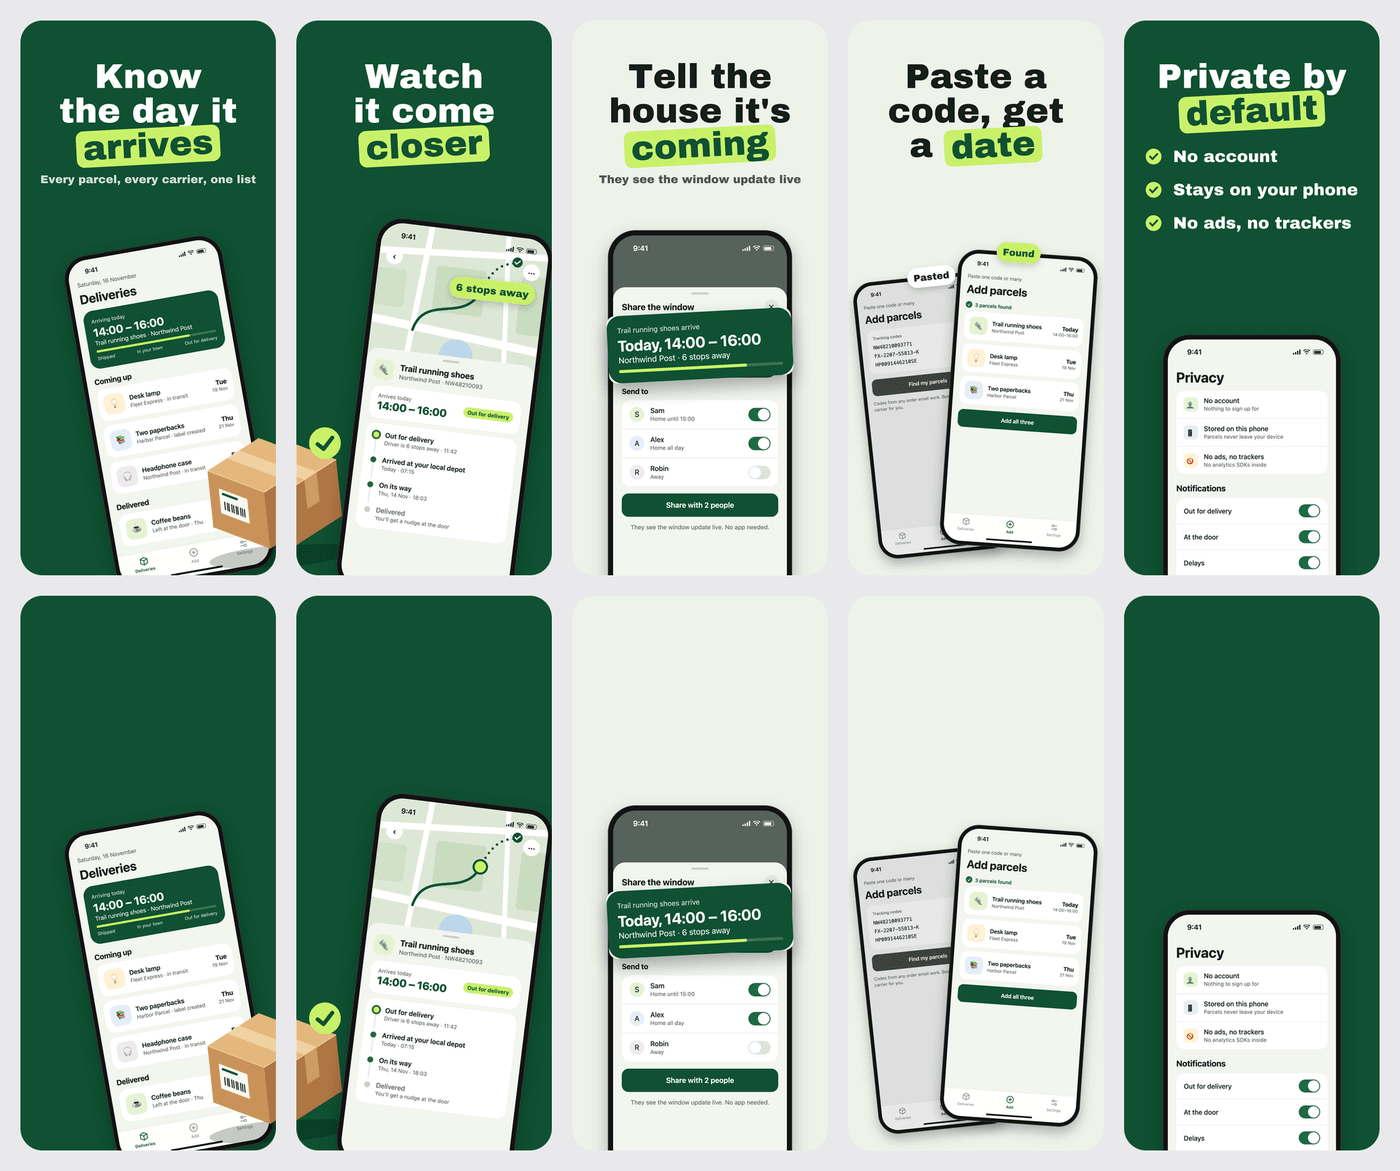
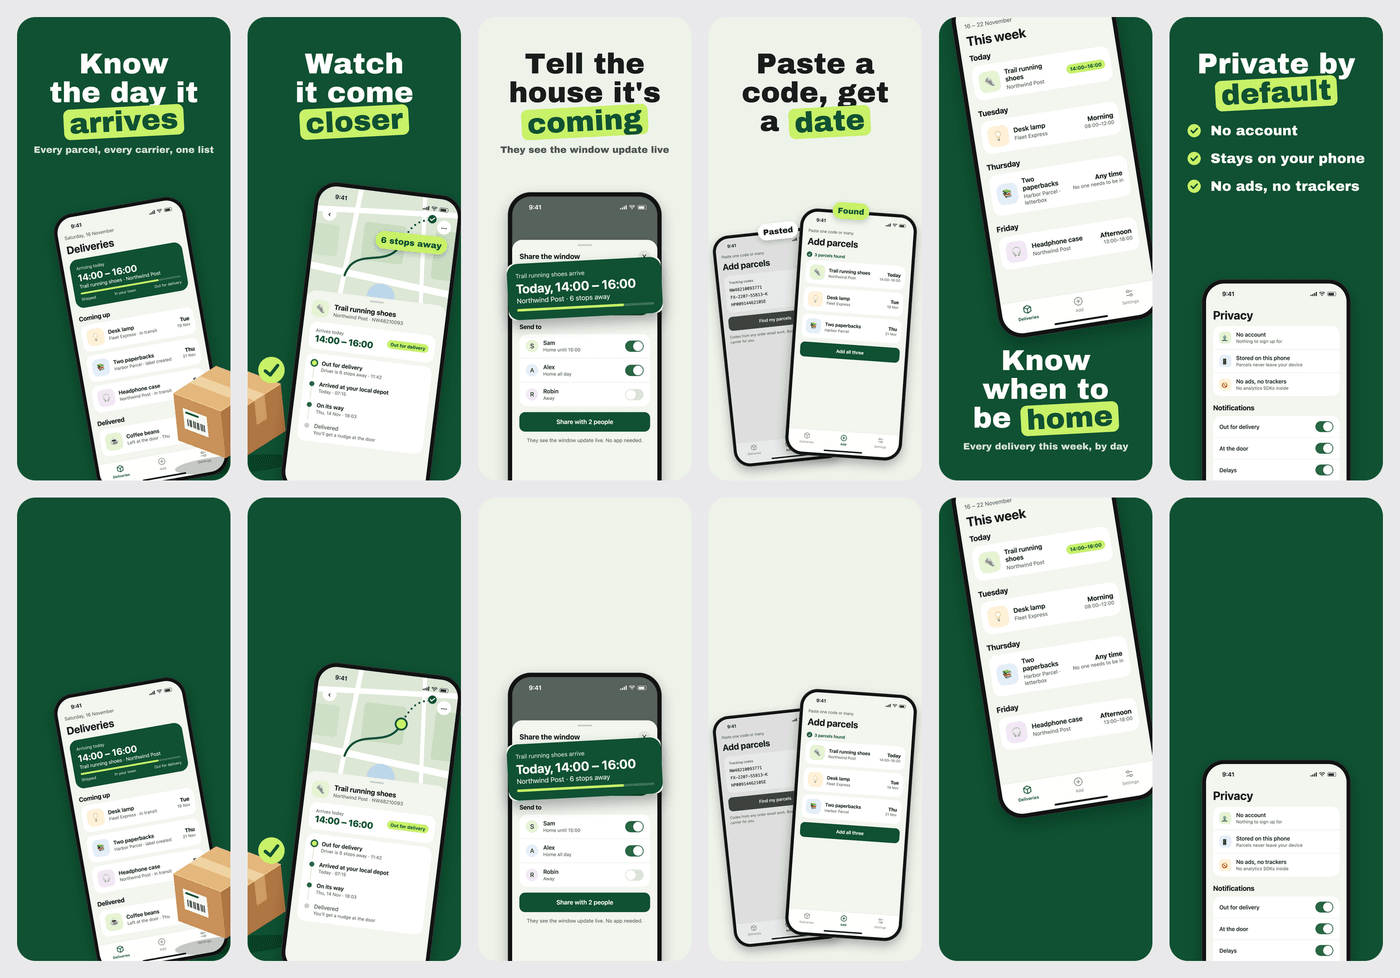
fix(app-screenshots): bottom copy moves the picture up; refuse covered words
With "copy": "bottom" every template mirrored nothing, so the headline
landed on the device and the frames were written with exit 0. Default
heights now mirror for bottom copy (a frame's own y is kept), the proof
block sits above a bottom headline, and a device or object covering a
headline, sub-line or proof block is an error, tested on the turned shape.

Also refused now: multipliers written as words ("three times faster"),
words and marks under 3:1 contrast with their ground, a device turned
more than 15 degrees, and a screen that is not a portrait iPhone capture
or has transparent pixels. The example gains a tilted-device frame with
bottom copy, so it uses all six templates.

diff --git a/skills/app-screenshots/examples/boxtrail/app/screens.html b/skills/app-screenshots/examples/boxtrail/app/screens.html
@@ -232,6 +232,25 @@
   </div>
 </section>
 
+<!-- 7. The week: every delivery by day, so you know when to be home -->
+<section class="screen" id="week">
+  <div data-status></div>
+  <div class="pad">
+    <div class="sub">16 – 22 November</div>
+    <h1>This week</h1>
+    <div class="section" style="margin-top:14px">Today</div>
+    <div class="card"><div class="thumb t1">👟</div><div class="grow"><div class="name">Trail running shoes</div><div class="meta">Northwind Post</div></div><div class="eta"><span class="chip">14:00–16:00</span></div></div>
+    <div class="section">Tuesday</div>
+    <div class="card"><div class="thumb t2">💡</div><div class="grow"><div class="name">Desk lamp</div><div class="meta">Fleet Express</div></div><div class="eta"><div class="big">Morning</div><div class="small">08:00–12:00</div></div></div>
+    <div class="section">Thursday</div>
+    <div class="card"><div class="thumb t3">📚</div><div class="grow"><div class="name">Two paperbacks</div><div class="meta">Harbor Parcel · letterbox</div></div><div class="eta"><div class="big">Any time</div><div class="small">No one needs to be in</div></div></div>
+    <div class="section">Friday</div>
+    <div class="card"><div class="thumb t4">🎧</div><div class="grow"><div class="name">Headphone case</div><div class="meta">Northwind Post</div></div><div class="eta"><div class="big">Afternoon</div><div class="small">13:00–18:00</div></div></div>
+  </div>
+  <div class="tabbar"><div class="tab on"><svg class="ico" viewBox="0 0 26 26"><path d="M13 3 22 7.5v11L13 23 4 18.5v-11L13 3Zm0 0v0M4 7.5 13 12l9-4.5M13 12v11" fill="none" stroke="currentColor" stroke-width="2" stroke-linejoin="round"/></svg>Deliveries</div><div class="tab"><svg class="ico" viewBox="0 0 26 26"><circle cx="13" cy="13" r="10" fill="none" stroke="currentColor" stroke-width="2"/><path d="M13 8.5v9M8.5 13h9" stroke="currentColor" stroke-width="2" stroke-linecap="round"/></svg>Add</div><div class="tab"><svg class="ico" viewBox="0 0 26 26"><path d="M5 8h16M5 18h16" stroke="currentColor" stroke-width="2" stroke-linecap="round"/><circle cx="10" cy="8" r="3" fill="#fff" stroke="currentColor" stroke-width="2"/><circle cx="17" cy="18" r="3" fill="#fff" stroke="currentColor" stroke-width="2"/></svg>Settings</div></div>
+  <div class="home-ind"></div>
+</section>
+
 <script>
   const tpl = document.getElementById('status').innerHTML
   document.querySelectorAll('[data-status]').forEach((el) => { el.innerHTML = tpl })

diff --git a/skills/app-screenshots/references/templates.md b/skills/app-screenshots/references/templates.md
@@ -1,8 +1,8 @@
 # Six layout templates
 
 `scripts/compose-set.mjs` renders these. A set picks one per frame; the
-example in `examples/boxtrail/` uses five of them in one set, and its review
-sheet is `examples/boxtrail/preview.png`.
+example in `examples/boxtrail/` uses all six in one set, with the copy at the top
+and at the bottom, and its review sheet is `examples/boxtrail/preview.png`.
 
 They come from what strong sets share. A board of four (Halo AI, Sermon Scribe,
 ReminderOS, Zulachat, November 2026) and the sets in `concepts.md` all do the
@@ -50,6 +50,16 @@ and its own `background`, `ink`, `subInk`. Placements (`device`, `object`,
 430 wide and about 934 tall), `width` and `rotate` in degrees. Every default
 below can be overridden per frame.
 
+**Copy at the bottom.** The defaults below are for copy at the top. With
+`"copy": "bottom"` every default height is mirrored (`y` becomes `934 - y`), so
+the device hangs from the top edge and shows its lower part; a `y` the frame
+sets itself is kept. Pick the screen with that in mind, or set `y`.
+
+**Nothing covers the words.** A device or object that overlaps a headline, a
+sub-line or a proof block is refused with an error naming the frame (the turned
+shape is tested, not its bounding box). Move it, shrink it or set the copy at
+the other end.
+
 ### `hero-object`
 
 The outcome headline, one large object, and a tilted device behind it.
@@ -68,7 +78,8 @@ One oversized device, turned and cut by the frame's edge. The default "it
 looks designed" frame.
 
 - 6° to 12° reads as deliberate; under 4° reads as a mistake; over 15° makes
-  the screen hard to read.
+  the screen hard to read, and is refused for every device (objects may turn as
+  they like).
 - The device is cut by its own frame and never shows a sliver in the neighbour.
   `device.bleed: true` lets it cross, and the compositor warns, because the
   store draws a gap between frames that would cut the screen in half.
@@ -121,7 +132,12 @@ Why believe it. One of:
   specifics, the proof a new app has.
 
 A badge or quote without a `source` is refused, and a fact with a number in it
-is refused (a figure goes in a sourced badge). Give it `"device": { "screen" }`
+is refused (a figure goes in a sourced badge). Sizes are fixed, so keep them
+short: a badge `value` is the figure alone, such as "4.8", and its `label` a few
+words ("on the App Store"); a quote
+is one line, about 30 characters, and a longer one is refused rather than
+shrunk. Cut the reviewer's words to the sentence that carries the point, without
+changing what they meant. Give it `"device": { "screen" }`
 and a device peeks in from the bottom at (215, 845), 300 wide (the screen that
 backs the claim, such as the privacy settings); without one the frame is type
 alone.
@@ -169,9 +185,16 @@ sticker:
   itself (guideline 5.2.4).
 - **Prices and amounts of money** without a source, and never in a headline
   (guidelines 2.3.7 and 2.3.14).
-- **Measured claims without a source:** percentages, "3x faster", "100K+ users",
-  star ratings.
+- **Measured claims without a source:** percentages, "3x faster", "three times
+  faster", "twice as fast", "100K+ users", star ratings.
 - **URLs and ©, ® or ™.**
+- **Words that would not read:** headline, sub-line, emphasised word, pill and
+  proof marks under 3:1 contrast with what they sit on (WCAG's minimum for large
+  text). A lime accent on a near-white ground fails; use `"emphasis": "pill"`
+  there, or a darker accent.
+- **A screen that is not a capture:** a device's `screen` must be a portrait
+  iPhone capture (about 0.46 wide to 1 tall, opaque). A composed image or a
+  landscape shot would be squeezed into the device.
 
 What it cannot see, and the review must:
 

diff --git a/skills/app-screenshots/SKILL.md b/skills/app-screenshots/SKILL.md
@@ -187,10 +187,13 @@ node .agents/skills/app-screenshots/scripts/compose-set.mjs --spec <screenshots>
   all of them fit three lines.
 - A device is cut by its own frame; only objects and grounds cross a seam, because the store
   draws a gap between frames.
-- **Refused:** a headline over six words; Apple recognitions or ranks; prices and amounts of money,
-  percentages, multipliers, user counts or ratings without a `source`; URLs and ©/®/™; a badge or
-  quote without a `source`; a fact with a number; a panorama as frame 1.
-- **Warned:** a device or object reaching into a headline; a device that bleeds across a seam.
+- `"copy": "bottom"` mirrors the template's default heights, so the picture moves up.
+- **Refused, with exit 1:** a device or object covering a headline, sub-line or proof block; a
+  headline over six words; Apple recognitions or ranks; prices and amounts of money, percentages,
+  multipliers, user counts or ratings without a `source`; URLs and ©/®/™; a badge or quote without
+  a `source`; a fact with a number; words under 3:1 contrast; a device turned more than 15°; a
+  screen that is not a portrait iPhone capture; a panorama as frame 1.
+- **Warned:** a device that bleeds across a seam.
 - `--sheet` writes the whole set as the product page shows it (rounded, with gaps, so the
   panorama is judged with its seams) and again with every word removed.
 

diff --git a/skills/app-screenshots/examples/boxtrail/README.md b/skills/app-screenshots/examples/boxtrail/README.md
@@ -10,7 +10,8 @@ set as the product page shows it, then with every word removed.
 | 2 | `panorama` | Watch it come *closer* | Same ground, a tilted device, the parcel's other half |
 | 3 | `feature-callout` | Tell the house it's *coming* | One feature: the shared window, lifted off the screen |
 | 4 | `before-after` | Paste a code, get a *date* | Codes pasted, parcels found: two real screens |
-| 5 | `proof` | Private by *default* | No ratings yet, so honest specifics instead |
+| 5 | `tilted-device` | Know when to be *home* | Copy at the bottom: the device hangs from the top edge |
+| 6 | `proof` | Private by *default* | No ratings yet, so honest specifics instead |
 
 Render it from a folder where `sharp` and `fontkitten` resolve:
 
@@ -24,5 +25,7 @@ Frames land in `render/<size>/` (ignored by git).
   simulator (SKILL.md, step 3). These were built in HTML (`app/screens.html`)
   and captured with `app/capture.mjs`, because the app does not exist.
 - `art/parcel.svg`: the hero object, drawn for the example.
+- No badge or quote: a made-up app has no ratings or reviews, and the example
+  will not invent them. `templates.md` shows both fields.
 - `fonts/ArchivoBlack-Regular.ttf`: Archivo Black, under the SIL Open Font
   Licence (`fonts/OFL.txt`).
